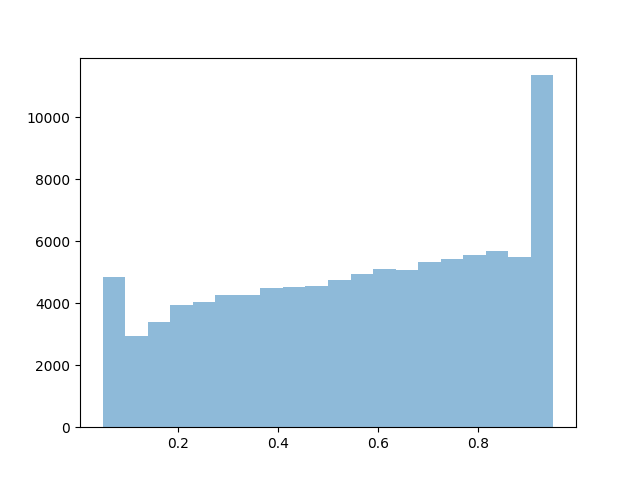
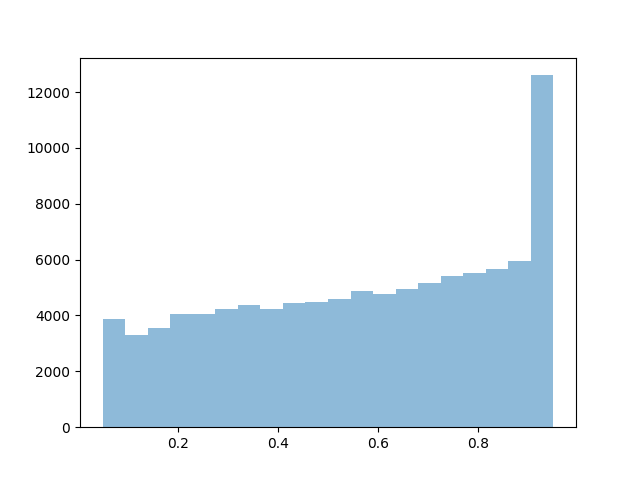
fix

diff --git a/src/make_data.py b/src/make_data.py
@@ -5,6 +5,7 @@ import numpy as np
 from lightgbm import LGBMClassifier
 from numpy.typing import NDArray
 from sklearn.linear_model import LogisticRegression
+from sklearn.metrics import roc_auc_score
 from sklearn.model_selection import train_test_split
 
 
@@ -14,20 +15,26 @@ def sigmoid(x: NDArray[np.float64]) -> NDArray[np.float64]:
 
 class DatasetGenerator:
     def __init__(
-        self, n_samples: int, n_features: int, std: float, predict_ps: bool, seed: int
+        self, n_samples: int, n_features: int, delta: float, predict_ps: bool, seed: int
     ):
         self.n_samples = n_samples
         self.n_features = n_features
-        self.std = std
+        self.delta = delta
         self.predict_ps = predict_ps
         self.seed = seed
 
-    def generate_dataset(self) -> Dict[str, NDArray[Any]]:
+    def generate_dataset(self) -> dict[str, NDArray[Any]]:
         dataset: Dict[str, NDArray[Any]] = {}
         dataset |= self.generate_feature()
         dataset |= self.generate_treatment(dataset["features"])
+        auc_score = self.calculate_auc(dataset["T"], dataset["T_prob"])
+        # import pdb; pdb.set_trace()
         if self.predict_ps:
             dataset |= self.predict_treatment(dataset["features"], dataset["T"])
+            propensity_score = dataset["T_prob_pred"]
+            rmse = self.calculate_rmse(dataset["T_prob"], dataset["T_prob_pred"])
+        else:
+            propensity_score = dataset["T_prob"]
         dataset |= self.generate_visit(dataset["features"], dataset["T"])
         dataset |= self.generate_conversion(
             dataset["features"], dataset["T"], dataset["y_c"]
@@ -35,12 +42,12 @@ class DatasetGenerator:
         dataset |= self.culculate_doubly_robust(
             dataset["features"],
             dataset["T"],
-            dataset["T_prob"],
+            propensity_score,
             dataset["y_r"],
             dataset["y_c"],
         )
         dataset |= self.culculate_ipw(
-            dataset["T"], dataset["T_prob"], dataset["y_r"], dataset["y_c"]
+            dataset["T"], propensity_score, dataset["y_r"], dataset["y_c"]
         )
 
         return dataset
@@ -66,7 +73,6 @@ class DatasetGenerator:
         #     - 0.5
         #     + np.random.normal(0, 0.5, size=len(features))
         # )
-        # T_prob = sigmoid(features[:, 2] * 10)
         T_prob = T_prob.clip(0.01, 0.99)
         T: NDArray[Any] = np.random.binomial(1, T_prob).astype(bool)
         treatment_prob = T_prob[T == 1]
@@ -89,9 +95,25 @@ class DatasetGenerator:
     ) -> Dict[str, NDArray[Any]]:
         lgb = LGBMClassifier(verbose=-1, random_state=42)
         lgb.fit(features, T)
-        T_prob = lgb.predict_proba(features)[:, 1]
-        T_prob = T_prob.clip(0.01, 0.99)
-        return {"T_prob": T_prob}
+        T_prob_pred = lgb.predict_proba(features)[:, 1]
+        T_prob_pred = T_prob_pred.clip(0.01, 0.99)
+        return {"T_prob_pred": T_prob_pred}
+
+    # T_Prob_predのAUCを計算
+    def calculate_auc(
+        self,
+        T: NDArray[Any],
+        T_prob_pred: NDArray[Any],
+    ) -> float:
+        return float(roc_auc_score(T, T_prob_pred))
+
+    # T_ProbとT_Prob_predのRMSEを計算
+    def calculate_rmse(
+        self,
+        T_prob: NDArray[Any],
+        T_prob_pred: NDArray[Any],
+    ) -> float:
+        return float(np.sqrt(np.mean((T_prob - T_prob_pred) ** 2)))
 
     def generate_visit(
         self,
@@ -99,23 +121,20 @@ class DatasetGenerator:
         T: NDArray[Any],
     ) -> Dict[str, NDArray[Any]]:
         np.random.seed(self.seed)
-        noise = np.random.normal(0, self.std, size=len(features))
-        interaction_effects = np.exp(features[:, 0]) * 0.2  # 交互作用効果を現実的に
-        baseline_effect = (
-            0.2 + features[:, 2] + features[:, 4]
-        )  # 基本効果を現実的に
-        treatment_effect = T * (0.1 + interaction_effects)  # 治療効果を現実的に
+        interaction_effects = np.exp(features[:, 0] + features[:, 3]) * 0.2
+        baseline_effect = 0.2 + features[:, 2] + features[:, 4]
+        treatment_effect = T * interaction_effects
+        std = self.delta * np.sqrt(np.pi / 2)
+        noise = np.random.normal(0, std, size=len(features))
         prob_visit = np.clip(
             sigmoid(baseline_effect + treatment_effect) + noise,
             0.05,
             0.95,
         )
         visit = np.random.binomial(1, prob_visit)
-
         plt.clf()
         plt.hist(prob_visit, bins=20, alpha=0.5, label="Visit")
         plt.savefig("visit_prob.png")
-        # import pdb; pdb.set_trace()
         return {"y_c": visit}
 
     def generate_conversion(
@@ -125,10 +144,12 @@ class DatasetGenerator:
         visit: NDArray[Any],
     ) -> Dict[str, NDArray[Any]]:
         np.random.seed(self.seed)
-        noise = np.random.normal(0, self.std, size=len(features))
-        interaction_effects_purchase = np.exp(features[:, 1]) * 0.2
+        noise = np.random.normal(0, self.delta, size=len(features))
+        interaction_effects_purchase = np.exp(features[:, 1] + features[:, 6]) * 0.2
         baseline_effect_purchase = 0.1 + features[:, 5] + features[:, 7]
-        treatment_effect_purchase = T * (0.05 + interaction_effects_purchase)
+        treatment_effect_purchase = T * interaction_effects_purchase
+        std = self.delta * np.sqrt(np.pi / 2)
+        noise = np.random.normal(0, std, size=len(features))
         prob_purchase = np.clip(
             sigmoid(baseline_effect_purchase + treatment_effect_purchase) + noise,
             0.10,

diff --git a/src/evaluate/evaluate.py b/src/evaluate/evaluate.py
@@ -3,6 +3,8 @@ from typing import Any, Tuple
 import matplotlib.pyplot as plt
 import numpy as np
 from numpy.typing import NDArray
+from scipy.integrate import quad
+from scipy.interpolate import interp1d
 
 
 def calculate_values(
@@ -30,6 +32,7 @@ def calculate_values(
 
         incremental_costs.append(ATE_Yc * np.sum(treatment_indices))
         incremental_values.append(ATE_Yr * np.sum(treatment_indices))
+        import pdb; pdb.set_trace()
         # print(ATE_Yr , ATE_Yc,np.sum(treatment_indices))
     # nanがあれば0に変換
     incremental_costs = np.array(incremental_costs)
@@ -45,13 +48,30 @@ def calculate_values(
 def cost_curve(
     incremental_costs: NDArray[Any], incremental_values: NDArray[Any], label: str
 ) -> None:
-    plt.plot(
-        incremental_costs / incremental_costs.max(),
-        incremental_values / incremental_values.max(),
-        label=label,
-    )
+    normalized_costs = incremental_costs / incremental_costs.max()
+    normalized_values = incremental_values / incremental_values.max()
+    
+    # グラフ描画
+    plt.plot(normalized_costs, normalized_values, label=label)
     plt.plot([0, 1], [0, 1], linestyle="--", color="gray")
     plt.xlabel("Incremental Costs")
     plt.ylabel("Incremental Values")
     plt.legend()
     plt.savefig("cost_curve.png")
+
+    # 線形補間による関数の定義
+    curve_function = interp1d(normalized_costs, normalized_values, fill_value="extrapolate")
+    
+    # y = x 関数との差を積分（y = x より上の部分のみ）
+    def area_above_y_equals_x(x: float) -> float:
+        difference = curve_function(x) - x
+        return difference
+    
+    # 0から1まで積分
+    area, error = quad(area_above_y_equals_x, 0, 1)
+    print(f"The area above y = x is approximately {area:.4f}, with an error of {error:.4e}.")
+
+# # 例として適用するデータ
+# incremental_costs = np.array([0, 0.25, 0.5, 0.75, 1])
+# incremental_values = np.array([0, 0.3, 0.6, 0.8, 1])
+# cost_curve(incremental_costs, incremental_values, "Example Curve")

diff --git a/main.py b/main.py
@@ -1,8 +1,7 @@
 import matplotlib.pyplot as plt
 import numpy as np
 import torch
-from econml.metalearners import SLearner
-from lightgbm import LGBMRegressor
+from lightgbm import LGBMClassifier
 from sklearn.preprocessing import MinMaxScaler
 
 from src.evaluate.evaluate import calculate_values, cost_curve
@@ -15,11 +14,20 @@ torch.manual_seed(42)
 
 
 def get_roi_tpmsl(X_train, y_r_train, y_c_train, T_train, X_test):
-    models = LGBMRegressor(verbose=-1)
-    S_learner_r = SLearner(overall_model=models).fit(y_r_train, T_train, X=X_train)
-    S_learner_c = SLearner(overall_model=models).fit(y_c_train, T_train, X=X_train)
-    tau_r = S_learner_r.effect(X_test)
-    tau_c = S_learner_c.effect(X_test)
+    X = np.concatenate([X_train, T_train.reshape(-1, 1)], axis=1)
+    reg_r = LGBMClassifier(verbose=-1)
+    reg_r.fit(X, y_r_train)
+    reg_c = LGBMClassifier(verbose=-1)
+    reg_c.fit(X, y_c_train)
+    X_0 = np.hstack([X_test, np.zeros((len(X_test), 1))])
+    X_1 = np.hstack([X_test, np.ones((len(X_test), 1))])
+    mu_r_0 = reg_r.predict_proba(X_0)[:, 1]
+    mu_r_1 = reg_r.predict_proba(X_1)[:, 1]
+    mu_c_0 = reg_c.predict_proba(X_0)[:, 1]
+    mu_c_1 = reg_c.predict_proba(X_1)[:, 1]
+    tau_r = mu_r_1 - mu_r_0
+    tau_c = mu_c_1 - mu_c_0
+
     roi_tpmsl = tau_r / tau_c
     scaler = MinMaxScaler()
     roi_tpmsl = scaler.fit_transform(roi_tpmsl.reshape(-1, 1)).flatten()
@@ -32,12 +40,12 @@ def main(predict_ps: bool) -> None:
     n_features = 8
     num_epochs = 50
     lr = 0.01
-    std = 0.05 * np.sqrt(2)
+    delta = 0.0
     batch_size = 128
     model_name = "Direct"
     model_params = {"input_dim": n_features}
     dataset = DatasetGenerator(
-        n_samples, n_features, std, predict_ps=predict_ps, seed=seed
+        n_samples, n_features, delta, predict_ps=predict_ps, seed=seed
     )
     dataset = dataset.generate_dataset()
     train_dataset, val_dataset, test_dataset = split_dataset(dataset)
